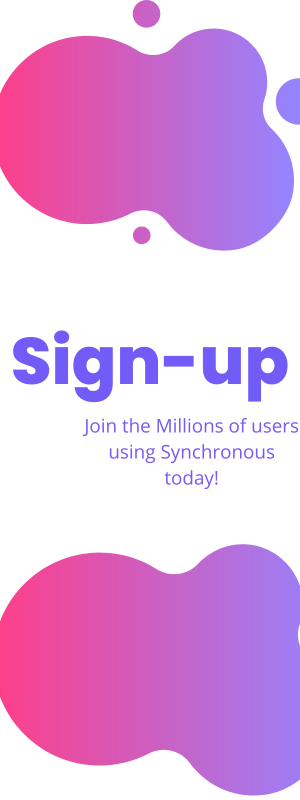
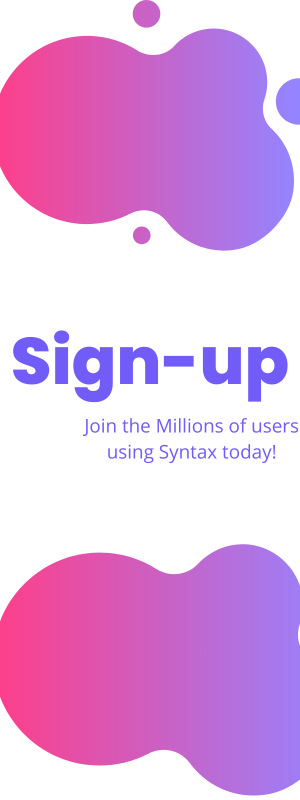
Add files via upload

Changed region(s): [[0.36, 0.5312, 0.93, 0.625]]

diff --git a/client/src/pages/profile/index.jsx b/client/src/pages/profile/index.jsx
@@ -1,4 +1,4 @@
-import { useEffect, useState } from 'react';
+import { useEffect, useState, useRef } from 'react';
 import { useNavigate } from 'react-router-dom';
 import {IoArrowBack} from 'react-icons/io5';
 import { useAppStore } from '../../store/index';
@@ -9,7 +9,7 @@ import { cn } from '../../lib/utils';
 import { Input } from '../../components/ui/input';
 import { Button } from '../../components/ui/button';
 import { toast } from 'sonner';
-import { UPDATE_PROFILE_ROUTE } from '../../utils/constants';
+import { ADD_PROFILE_IMAGE_ROUTE, REMOVE_PROFILE_IMAGE_ROUTE, UPDATE_PROFILE_ROUTE } from '../../utils/constants';
 import {apiClient} from '../../lib/api-client';
 
 const Profile = () => {
@@ -20,6 +20,8 @@ const Profile = () => {
     const [image, setImage] = useState(null);
     const [selectedColor, setSelectedColor] = useState(0);
     const [hovered, setHovered] = useState(false);
+    const fileInputRef= useState(null);
+    const HOST = import.meta.env.VITE_HOST;
 
     const handleNavigate = () => {
         if(userInfo.profileSetup){
@@ -38,12 +40,32 @@ const Profile = () => {
     ];
 
     useEffect(() => {
-        if(userInfo){
+        if(userInfo.profileSetup){
             setFirstName(userInfo.firstName);
             setLastName(userInfo.lastName);
             setSelectedColor(userInfo.color);
         }
+        if(userInfo.image){
+            setImage(`${HOST}/${userInfo.image}`);
+        }
     },[userInfo]);
+
+    const handleFileInputClick = () => {
+        fileInputRef.current.click();
+    }
+    const handleImageChange=async(event)=>{
+        const file=event.target.files[0];
+        console.log(file);
+        if(file){
+            const formData=new FormData();
+            formData.append("profile-image", file);
+            const response=await apiClient.post(ADD_PROFILE_IMAGE_ROUTE, formData, {withCredentials:true});
+            if(response.status===200 && response.data.image){
+                setUserInfo({...userInfo, image: response.data.image});
+                toast.success("Profile image updated successfully");
+            }
+        }
+    };
 
     const validateProfile = () => {
         if(!firstName){
@@ -72,6 +94,19 @@ const Profile = () => {
         }
     };
 
+    const handleDeleteImage=async()=>{
+        try{
+            const response=await apiClient.delete(REMOVE_PROFILE_IMAGE_ROUTE, {withCredentials:true});
+            if(response.status===200){
+                setUserInfo({...userInfo, image: null});
+                setImage(null);
+                toast.success("Profile image removed successfully");
+            }
+        } catch(error){
+            console.log(error);
+        }
+    }
+
     return (
         <div className='bg-[#1b1c24] h-screen flex flex-col items-center justify-center gap-10'>
             <div className='flex flex-col w-[80vw] md:w-max gap-10'>
@@ -89,15 +124,16 @@ const Profile = () => {
                         </Avatar>
                         {
                             hovered && (
-                                <div className='absolute inset-0 flex items-center justify-center bg-black/50 ring-fuchsia-50 rounded-full'> {image ? <FaTrash className='text-white text-3xl cursor-pointer' /> : <FaPlus className='text-white text-3xl cursor-pointer' />}</div>
+                                <div className='absolute inset-0 flex items-center justify-center bg-black/50 ring-fuchsia-50 rounded-full' onClick={image?handleDeleteImage:handleFileInputClick}> {image ? <FaTrash className='text-white text-3xl cursor-pointer' /> : <FaPlus className='text-white text-3xl cursor-pointer' />}</div>
                             )
                         }
                     </div>
+                    <input type="file" ref={(el) => (fileInputRef.current = el)} className='hidden' onChange={handleImageChange} name='profile-image' accept=".png, .jpg, .jpeg, .svg, .webp"/>
                     <div className='flex min-w-32 md:min-w-64 flex-col gap-5 text-white items-center justify-center'>
                         <div className='w-full'>
                             <Input placeholder="Email" type="email" disabled value={userInfo.email} className="rounded-lg p-6 bg-[#2c2e3b] border-none"></Input>
-                            <Input placeholder="First Name" type="text" onChange={e=>setFirstName(e.target.value)} value={firstName} className="rounded-lg p-6 bg-[#2c2e3b] border-none" />
-                            <Input placeholder="Last Name" type="text" onChange={e=>setLastName(e.target.value)} value={lastName} className="rounded-lg p-6 bg-[#2c2e3b] border-none" />
+                            <Input placeholder="First Name" type="text" onChange={e=>setFirstName(e.target.value)} value={firstName ?? ""} className="rounded-lg p-6 bg-[#2c2e3b] border-none" />
+                            <Input placeholder="Last Name" type="text" onChange={e=>setLastName(e.target.value)} value={lastName ?? ""} className="rounded-lg p-6 bg-[#2c2e3b] border-none" />
                         </div>
                         <div className='w-full flex flex-row gap-5'>
                         {

diff --git a/client/src/pages/chat/components/contacts-container/index.jsx b/client/src/pages/chat/components/contacts-container/index.jsx
@@ -1,0 +1,50 @@
+const Logo = () => {
+  return (
+    <div className="flex p-5  justify-start items-center gap-2">
+      <svg
+        id="logo-38"
+        width="78"
+        height="32"
+        viewBox="0 0 78 32"
+        fill="none"
+        xmlns="http://www.w3.org/2000/svg"
+      >
+        <image
+          href="/logo.png"
+          width="100"
+          height="35"
+          x="0"
+          y="0"></image>
+      </svg>
+      <span className="text-3xl font-semibold ">Syntax</span>
+    </div>
+  );
+};
+
+const Title=({text})=>{
+  return (
+    <h6 className="uppercase tracking-widest text-neutral-400 pl-10 font-light text-opacity-90 text-sm">{text}</h6>
+  )
+}
+
+const ContactsContainer = () => {
+  return (
+    <div className="relative md:w-[30vw] lg:w-[30vw] xl:[20vw] bg-[#1b1c24] border-r-2 border-[#2f303b] w-full">
+      <div className="pt-3">
+        <Logo />
+      </div>
+      <div className="my-5">
+        <div className="flex pr-10 justify-between items-center">
+          <Title text="Direct Messages" />
+        </div>
+      </div>
+      <div className="my-5">
+        <div className="flex pr-10 justify-between items-center">
+          <Title text="Channels" />
+        </div>
+      </div>
+    </div>
+  )
+}
+
+export default ContactsContainer;

diff --git a/client/src/pages/chat/index.jsx b/client/src/pages/chat/index.jsx
@@ -2,6 +2,9 @@ import {useAppStore} from "../../store/index";
 import {useEffect} from "react";
 import {useNavigate} from "react-router-dom";
 import { toast } from "sonner";
+import ContactsContainer from "./components/contacts-container";
+import ChatContainer from "./components/chat-container";
+import EmptyChatContainer from "./components/empty-chat-container";
 
 const Chat = () => {
     const { userInfo } = useAppStore();
@@ -13,7 +16,11 @@ const Chat = () => {
         }
     }, [userInfo, navigate]);
     return (
-        <div>Chat</div>
+        <div className="flex h-[100vh] text-white overflow-hidden">
+            <ContactsContainer />
+            <ChatContainer />
+            <EmptyChatContainer />
+        </div>
     );
 };
 

diff --git a/client/src/pages/chat/components/empty-chat-container/index.jsx b/client/src/pages/chat/components/empty-chat-container/index.jsx
@@ -1,0 +1,14 @@
+const EmptyChatContainer = () => {
+  return (
+    <div className="flex-1 hidden md:flex flex-col justify-center items-center bg-[#1c1d25] transition-all duration-1000 text-white">
+      <img
+        src="/logo.png"
+        alt="empty-chat"
+        className="w-40 h-40 object-contain mb-6 opacity-70"
+      />
+      <p className="text-sm opacity-80">Select a chat to start messaging</p>
+    </div>
+  );
+};
+
+export default EmptyChatContainer;

diff --git a/client/index.html b/client/index.html
@@ -2,9 +2,9 @@
 <html lang="en">
   <head>
     <meta charset="UTF-8" />
-    <link rel="icon" type="image/svg+xml" href="/vite.svg" />
+    <link rel="icon" type="image/svg+xml" href="/logo.png" />
     <meta name="viewport" content="width=device-width, initial-scale=1.0" />
-    <title>Synchronous - World's Fastest Growing Web Chat-App</title>
+    <title>Syntax - World's Fastest Growing Web Chat-App</title>
   </head>
   <body>
     <div id="root"></div>

diff --git a/client/src/utils/constants.js b/client/src/utils/constants.js
@@ -4,3 +4,5 @@ export const SIGNUP_ROUTE=`${AUTH_ROUTES}/signup`;
 export const LOGIN_ROUTE=`${AUTH_ROUTES}/login`;
 export const GET_USER_INFO=`${AUTH_ROUTES}/user-info`;
 export const UPDATE_PROFILE_ROUTE=`${AUTH_ROUTES}/update-profile`;
+export const ADD_PROFILE_IMAGE_ROUTE=`${AUTH_ROUTES}/add-profile-image`;
+export const REMOVE_PROFILE_IMAGE_ROUTE=`${AUTH_ROUTES}/remove-profile-image`;

diff --git a/client/eslint.config.js b/client/eslint.config.js
@@ -24,6 +24,7 @@ export default [
       'react-refresh': reactRefresh,
     },
     rules: {
+      'react/prop-types':"off",
       ...js.configs.recommended.rules,
       ...react.configs.recommended.rules,
       ...react.configs['jsx-runtime'].rules,

diff --git a/client/src/pages/chat/components/chat-container/index.jsx b/client/src/pages/chat/components/chat-container/index.jsx
@@ -1,0 +1,9 @@
+const ChatContainer = () => {
+  return (
+    <div>
+      
+    </div>
+  )
+}
+
+export default ChatContainer
